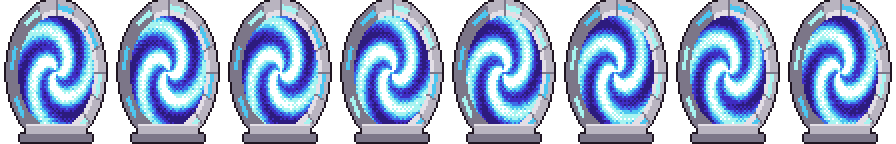
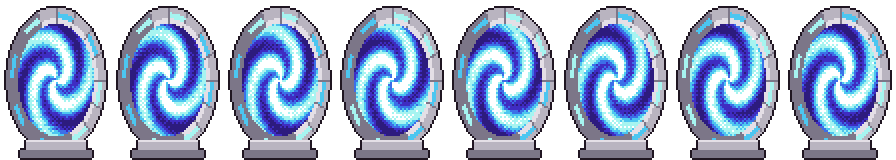
E1: stop the Portal's ring being cut off at the top of its frame

diff --git a/tools/art_kit.py b/tools/art_kit.py
@@ -732,17 +732,17 @@ def menu_cloud(seed, width):
 
 
 def menu_portal():
-    """Eight frames of a stone ring with a swirl inside, 56 by 72 art pixels each."""
-    w, h, frames = 56, 72, 8
+    """Eight frames of a stone ring with a swirl inside, 56 by 80 art pixels each."""
+    w, h, frames = 56, 80, 8
     sheet = Image.new("RGBA", (w * frames, h), (0, 0, 0, 0))
-    cx, cy, rx, ry = 27.5, 35.5, 19.0, 28.0
+    cx, cy, rx, ry = 27.5, 39.5, 19.0, 28.0
     stone, stone_dark, stone_light = hexc("#b9b4c0"), hexc("#7c7688"), hexc("#e4dfe6")
     swirl = [hexc(c) for c in ("#2d1b7e", "#3f2cc2", "#3c6fe8", "#4cc6f0", "#a6f4f0", "#ffffff")]
     px = sheet.load()
     draw = ImageDraw.Draw(sheet)
     for frame in range(frames):
         phase = frame / frames * math.tau
-        for y in range(66):
+        for y in range(70):
             for x in range(w):
                 dx, dy = (x - cx) / rx, (y - cy) / ry
                 r, a = math.hypot(dx, dy), math.atan2(dy, dx)
@@ -762,9 +762,9 @@ def menu_portal():
                         color = hexc("#a6f4f0") if math.sin(block * 0.8 - phase) > 0 else hexc("#4cc6f0")
                     px[sx, y] = color
         left = frame * w
-        draw.rectangle((left + 13, 62, left + 42, 66), fill=stone)
-        draw.rectangle((left + 10, 67, left + 45, 70), fill=stone_dark)
-        draw.line((left + 13, 62, left + 42, 62), fill=stone_light)
+        draw.rectangle((left + 13, 70, left + 42, 74), fill=stone)
+        draw.rectangle((left + 10, 75, left + 45, 78), fill=stone_dark)
+        draw.line((left + 13, 70, left + 42, 70), fill=stone_light)
     return outline_outside(sheet)
 
 
